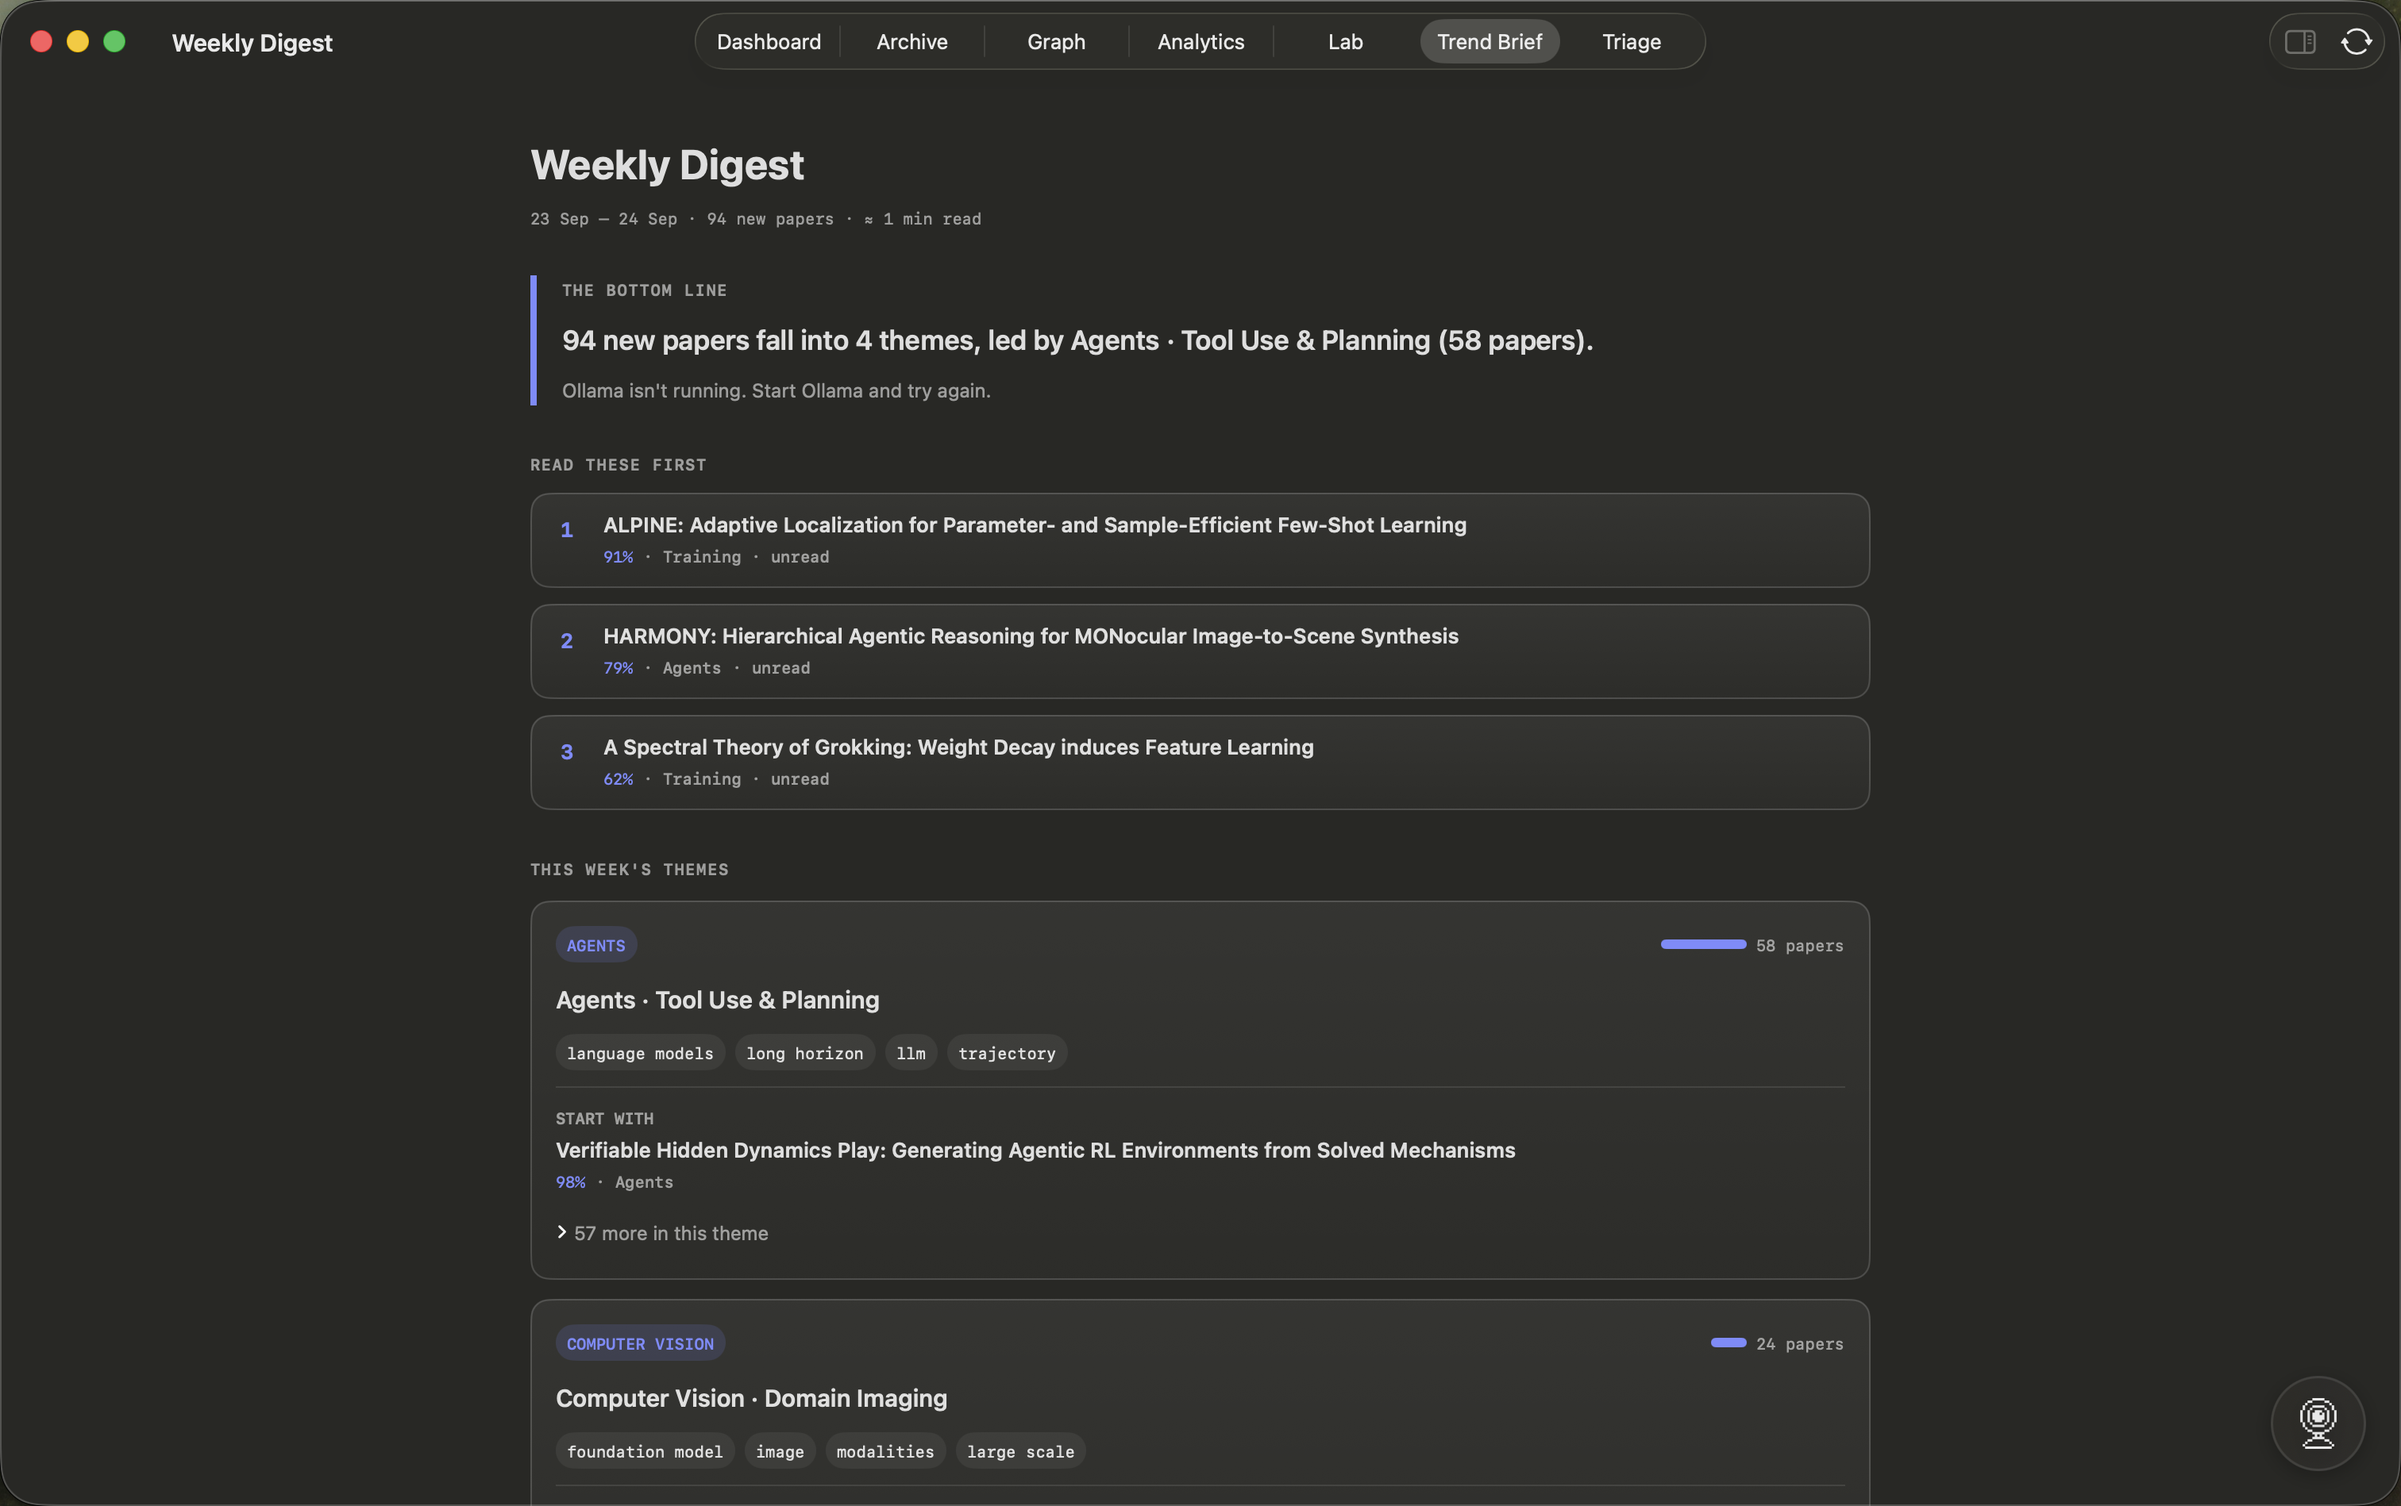
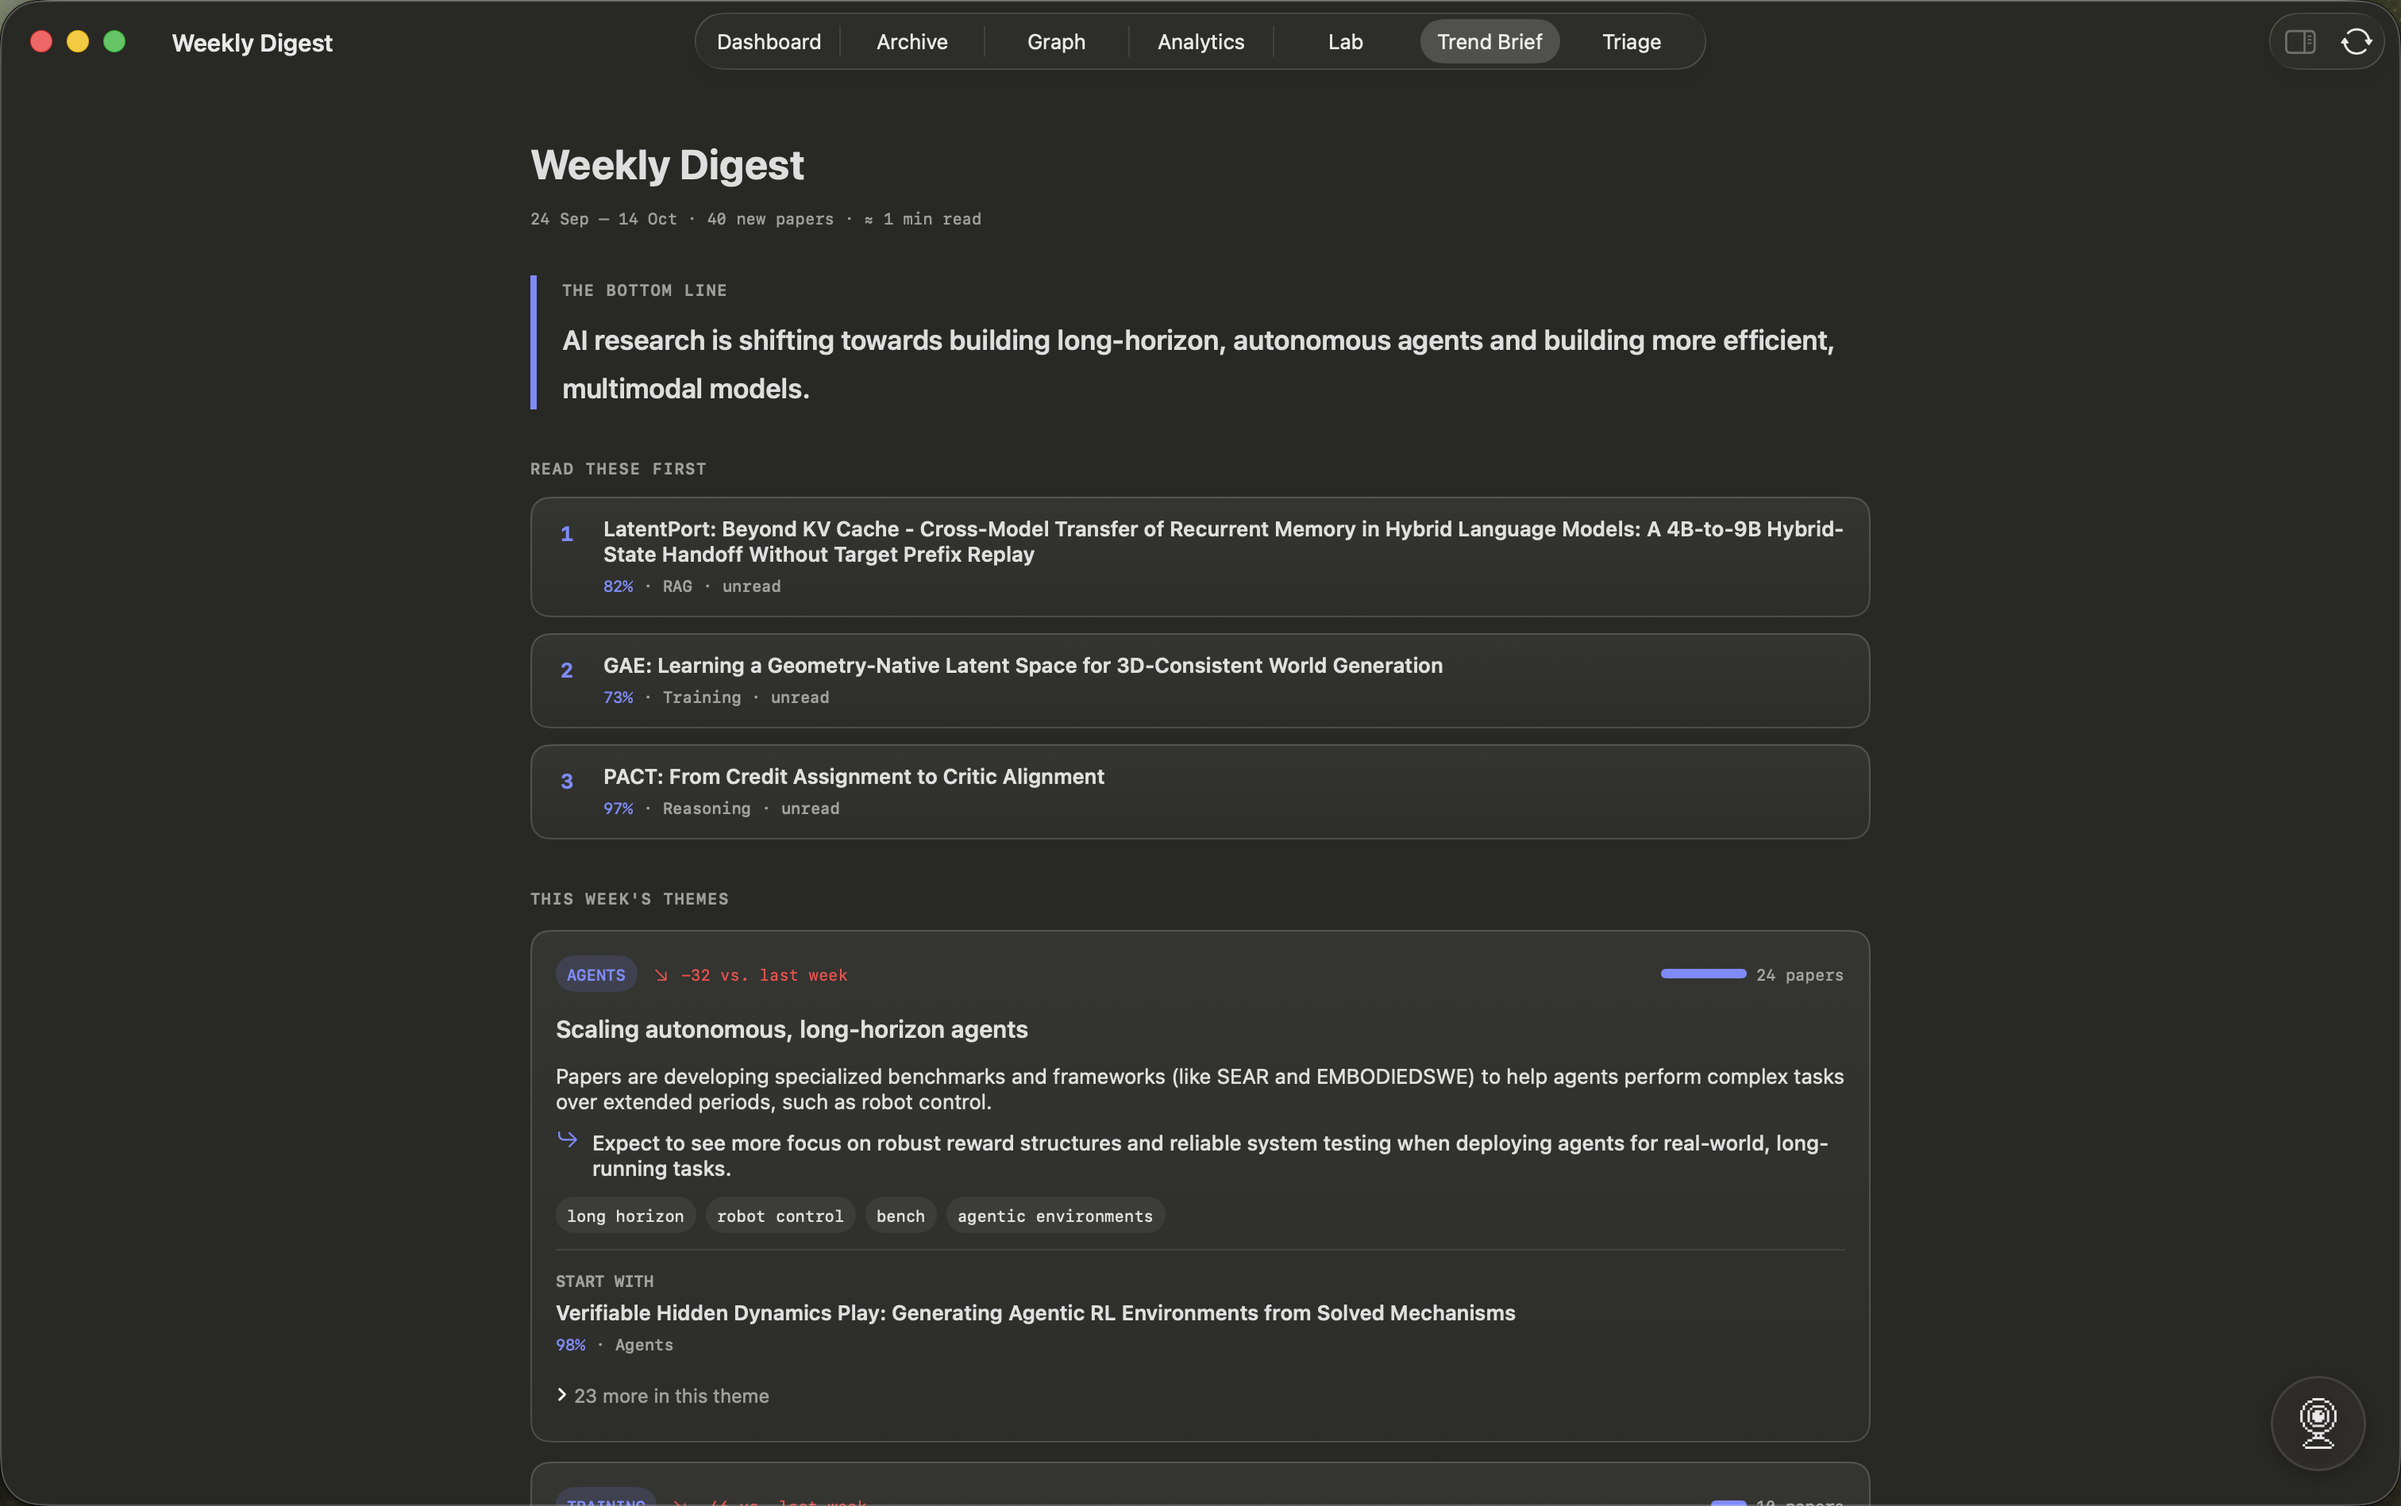
fix: stop reporting 'Ollama isn't running' when Ollama is just busy
Ollama returns HTTP 500 while swapping models in memory (text and
embedding models share it), and the app mapped that and any dropped
connection to 'isn't running'. That stuck on the Trend Brief until the
paper set changed. generate() now retries once after 2s, and only says
'isn't running' if /api/tags doesn't answer; otherwise 'busy'.
Fresh Trend Brief screenshot with the generated narrative.

diff --git a/AIPapers/Services/OllamaService.swift b/AIPapers/Services/OllamaService.swift
@@ -57,6 +57,8 @@ nonisolated struct OllamaClassification: Sendable, Equatable {
 
 enum OllamaServiceError: LocalizedError {
     case connectionFailed(underlying: Error)
+    /// Ollama answers but couldn't take the request (usually swapping models in memory).
+    case busy
     case serverError(statusCode: Int)
     case invalidResponse
     case malformedContent(raw: String)
@@ -65,6 +67,8 @@ enum OllamaServiceError: LocalizedError {
         switch self {
         case .connectionFailed:
             return "Ollama isn't running. Start Ollama and try again."
+        case .busy:
+            return "Ollama is busy loading a model. Try again in a moment."
         case .serverError(let statusCode):
             return "Ollama returned an error (HTTP \(statusCode))."
         case .invalidResponse:
@@ -79,6 +83,8 @@ enum OllamaServiceError: LocalizedError {
         switch self {
         case .connectionFailed(let underlying):
             return "connectionFailed: \(underlying)"
+        case .busy:
+            return "busy"
         case .serverError(let statusCode):
             return "serverError: HTTP \(statusCode)"
         case .invalidResponse:
@@ -210,32 +216,46 @@ nonisolated final class OllamaService {
         }
         let request = try makeRequest(prompt: prompt, json: json, contextTokens: contextTokens)
 
-        let data: Data
-        let response: URLResponse
-        do {
-            (data, response) = try await session.data(for: request)
-        } catch {
-            // ponytail: single retry on a fresh connection — URLSession's keep-alive
-            // connection to local Ollama occasionally gets closed between requests;
-            // a real outage still fails on the retry.
+        // Two attempts. Ollama returns HTTP 500 while it swaps models in and
+        // out of memory (embeddings and text share it), and URLSession's
+        // keep-alive connection occasionally drops between requests; both
+        // clear within seconds. A real outage still fails twice.
+        var data = Data()
+        var lastError: Error?
+        for attempt in 1...2 {
+            if attempt == 2 { try? await Task.sleep(for: .seconds(2)) }
             do {
-                (data, response) = try await session.data(for: request)
+                let (body, response) = try await session.data(for: request)
+                guard let http = response as? HTTPURLResponse else { throw OllamaServiceError.invalidResponse }
+                if http.statusCode >= 500 { lastError = OllamaServiceError.serverError(statusCode: http.statusCode); continue }
+                guard (200..<300).contains(http.statusCode) else { throw OllamaServiceError.serverError(statusCode: http.statusCode) }
+                data = body
+                lastError = nil
+                break
+            } catch let error as OllamaServiceError {
+                throw error
             } catch {
-                throw OllamaServiceError.connectionFailed(underlying: error)
+                lastError = error
             }
         }
-
-        guard let httpResponse = response as? HTTPURLResponse else {
-            throw OllamaServiceError.invalidResponse
-        }
-        guard (200..<300).contains(httpResponse.statusCode) else {
-            throw OllamaServiceError.serverError(statusCode: httpResponse.statusCode)
+        if let lastError {
+            if lastError is OllamaServiceError { throw OllamaServiceError.busy }
+            // Only claim "not running" if it really doesn't answer.
+            throw await isReachable() ? OllamaServiceError.busy : OllamaServiceError.connectionFailed(underlying: lastError)
         }
 
         guard let generateResponse = try? JSONDecoder().decode(GenerateResponse.self, from: data) else {
             throw OllamaServiceError.invalidResponse
         }
         return generateResponse.response
+    }
+
+    /// Whether Ollama answers at all — separates "not running" from "busy".
+    private func isReachable() async -> Bool {
+        var request = URLRequest(url: baseURL.appendingPathComponent("api/tags"))
+        request.timeoutInterval = 2
+        guard let (_, response) = try? await session.data(for: request) else { return false }
+        return (response as? HTTPURLResponse)?.statusCode == 200
     }
 
     private static func canonicalTopics(from rawTopics: [String]) -> [String] {

diff --git a/docs/ARCHITECTURE.md b/docs/ARCHITECTURE.md
@@ -190,6 +190,7 @@ Schema changes to `Paper` need a matching `ALTER TABLE` in `StoreMigration.addCo
 | A plan needs at least two steps; long fields are capped | `EngineeringService.parsePlan` |
 | LaTeX backslashes inside JSON are escaped before decoding | `EngineeringService.jsonData` |
 | Broken JSON gets one automatic retry, then a visible error | `EngineeringService.generateValidated` |
+| Ollama HTTP 5xx (model swapping) or a dropped connection gets one retry after 2 s; "isn't running" is only reported if Ollama doesn't answer at all, otherwise "busy" | `OllamaService.generate`, `isReachable` |
 | Ranking is deterministic; the model's relevance estimate is at most 20% of the score | `RelevanceService.score` |
 
 ---
